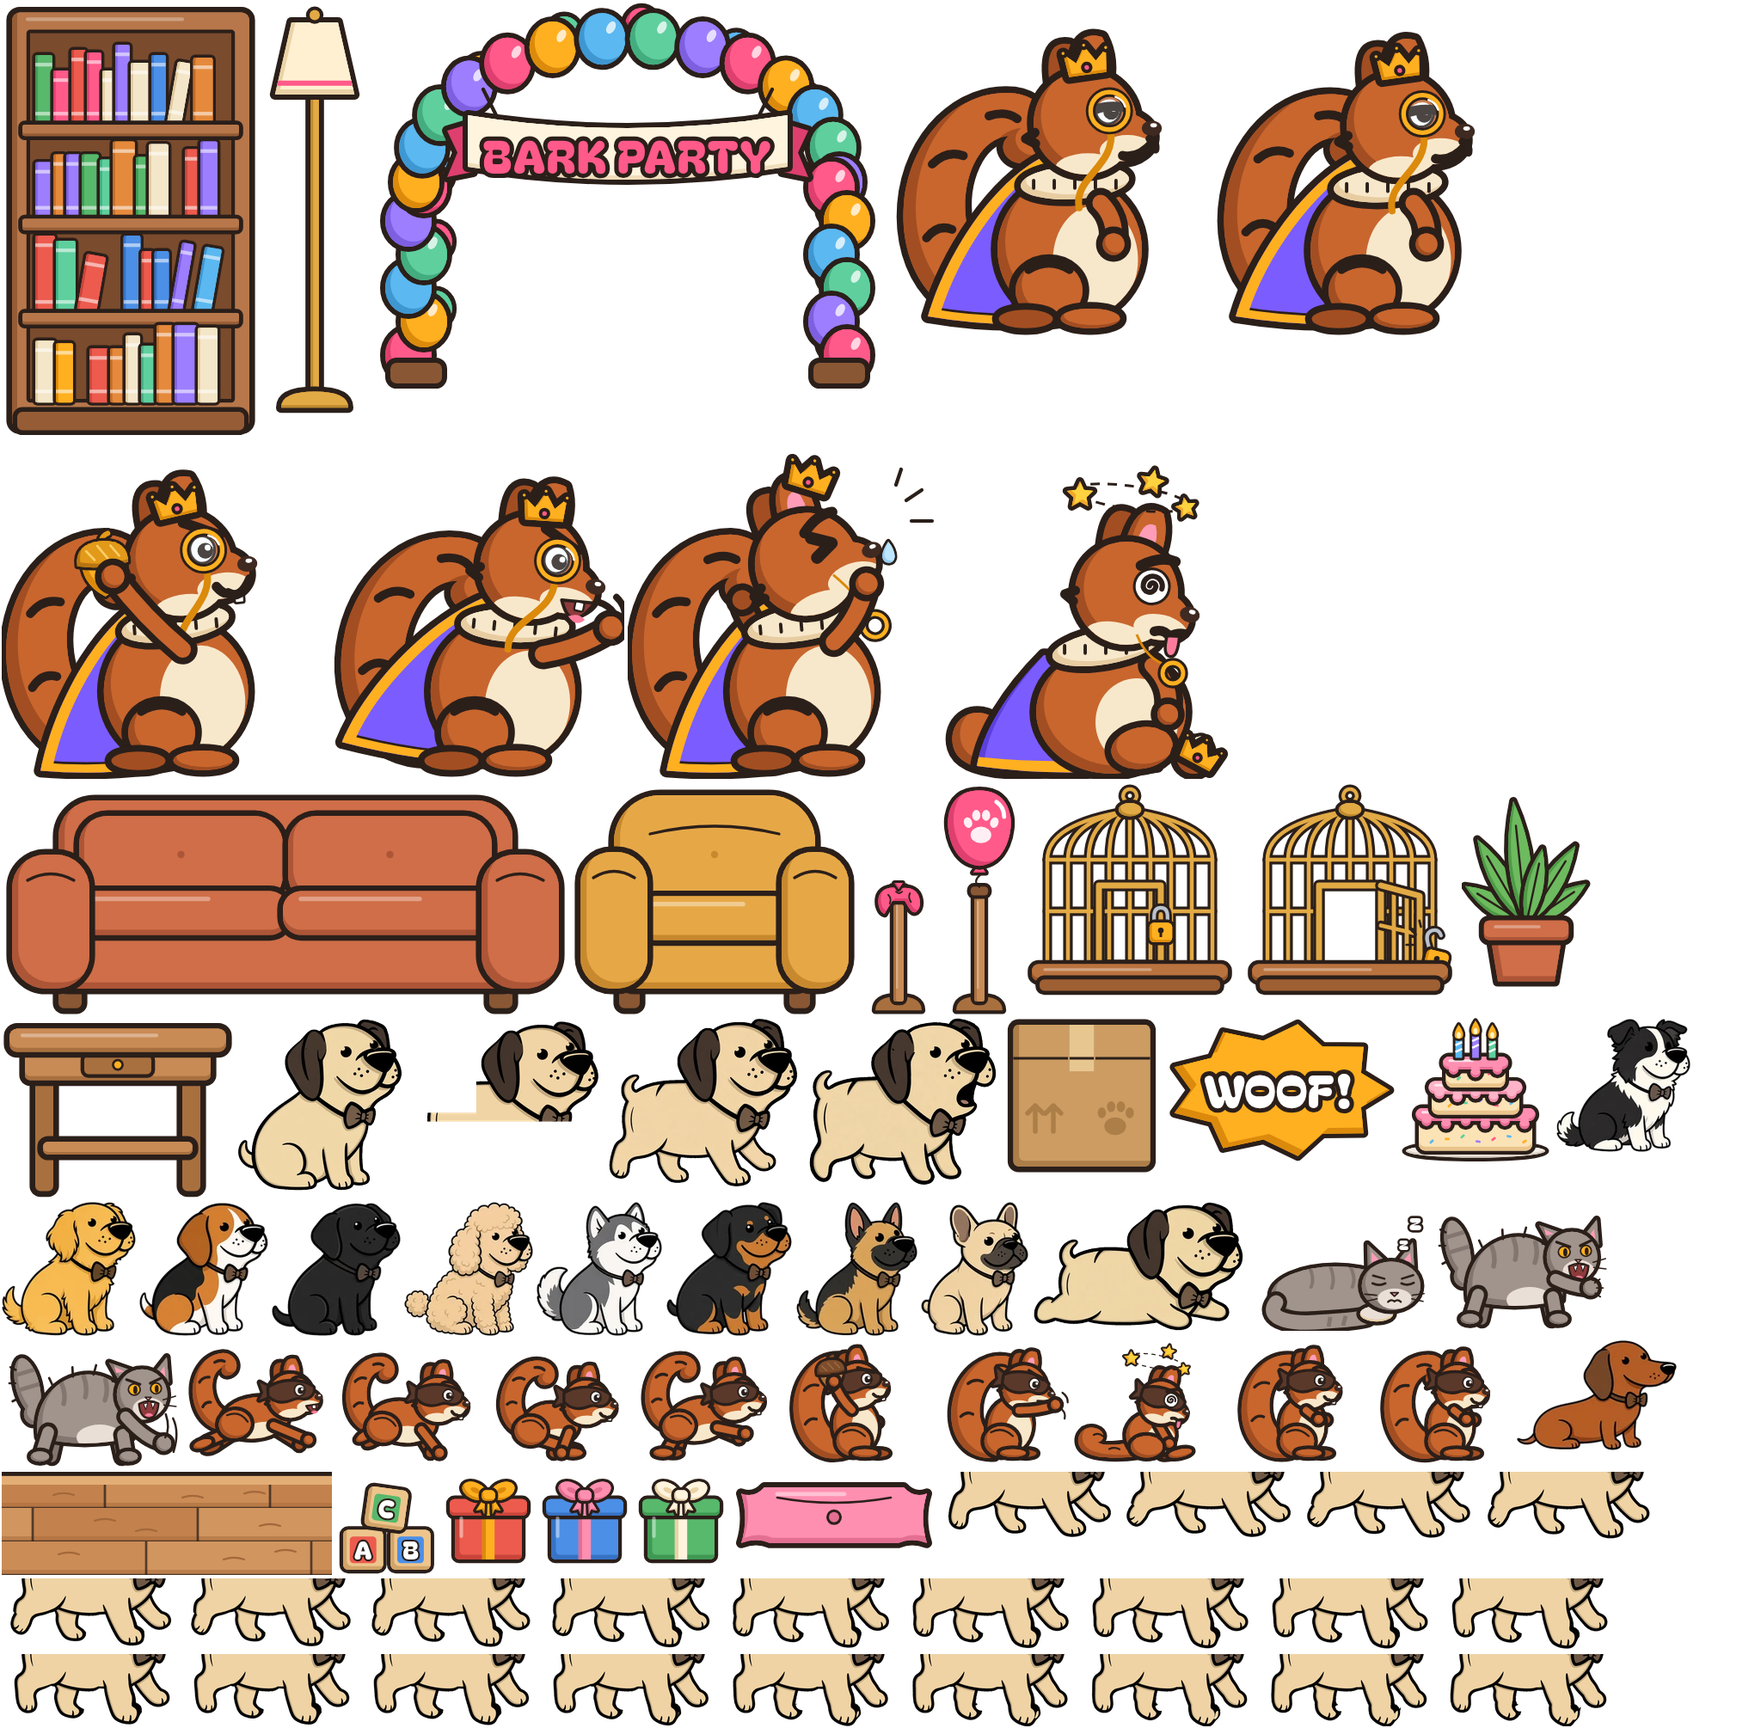
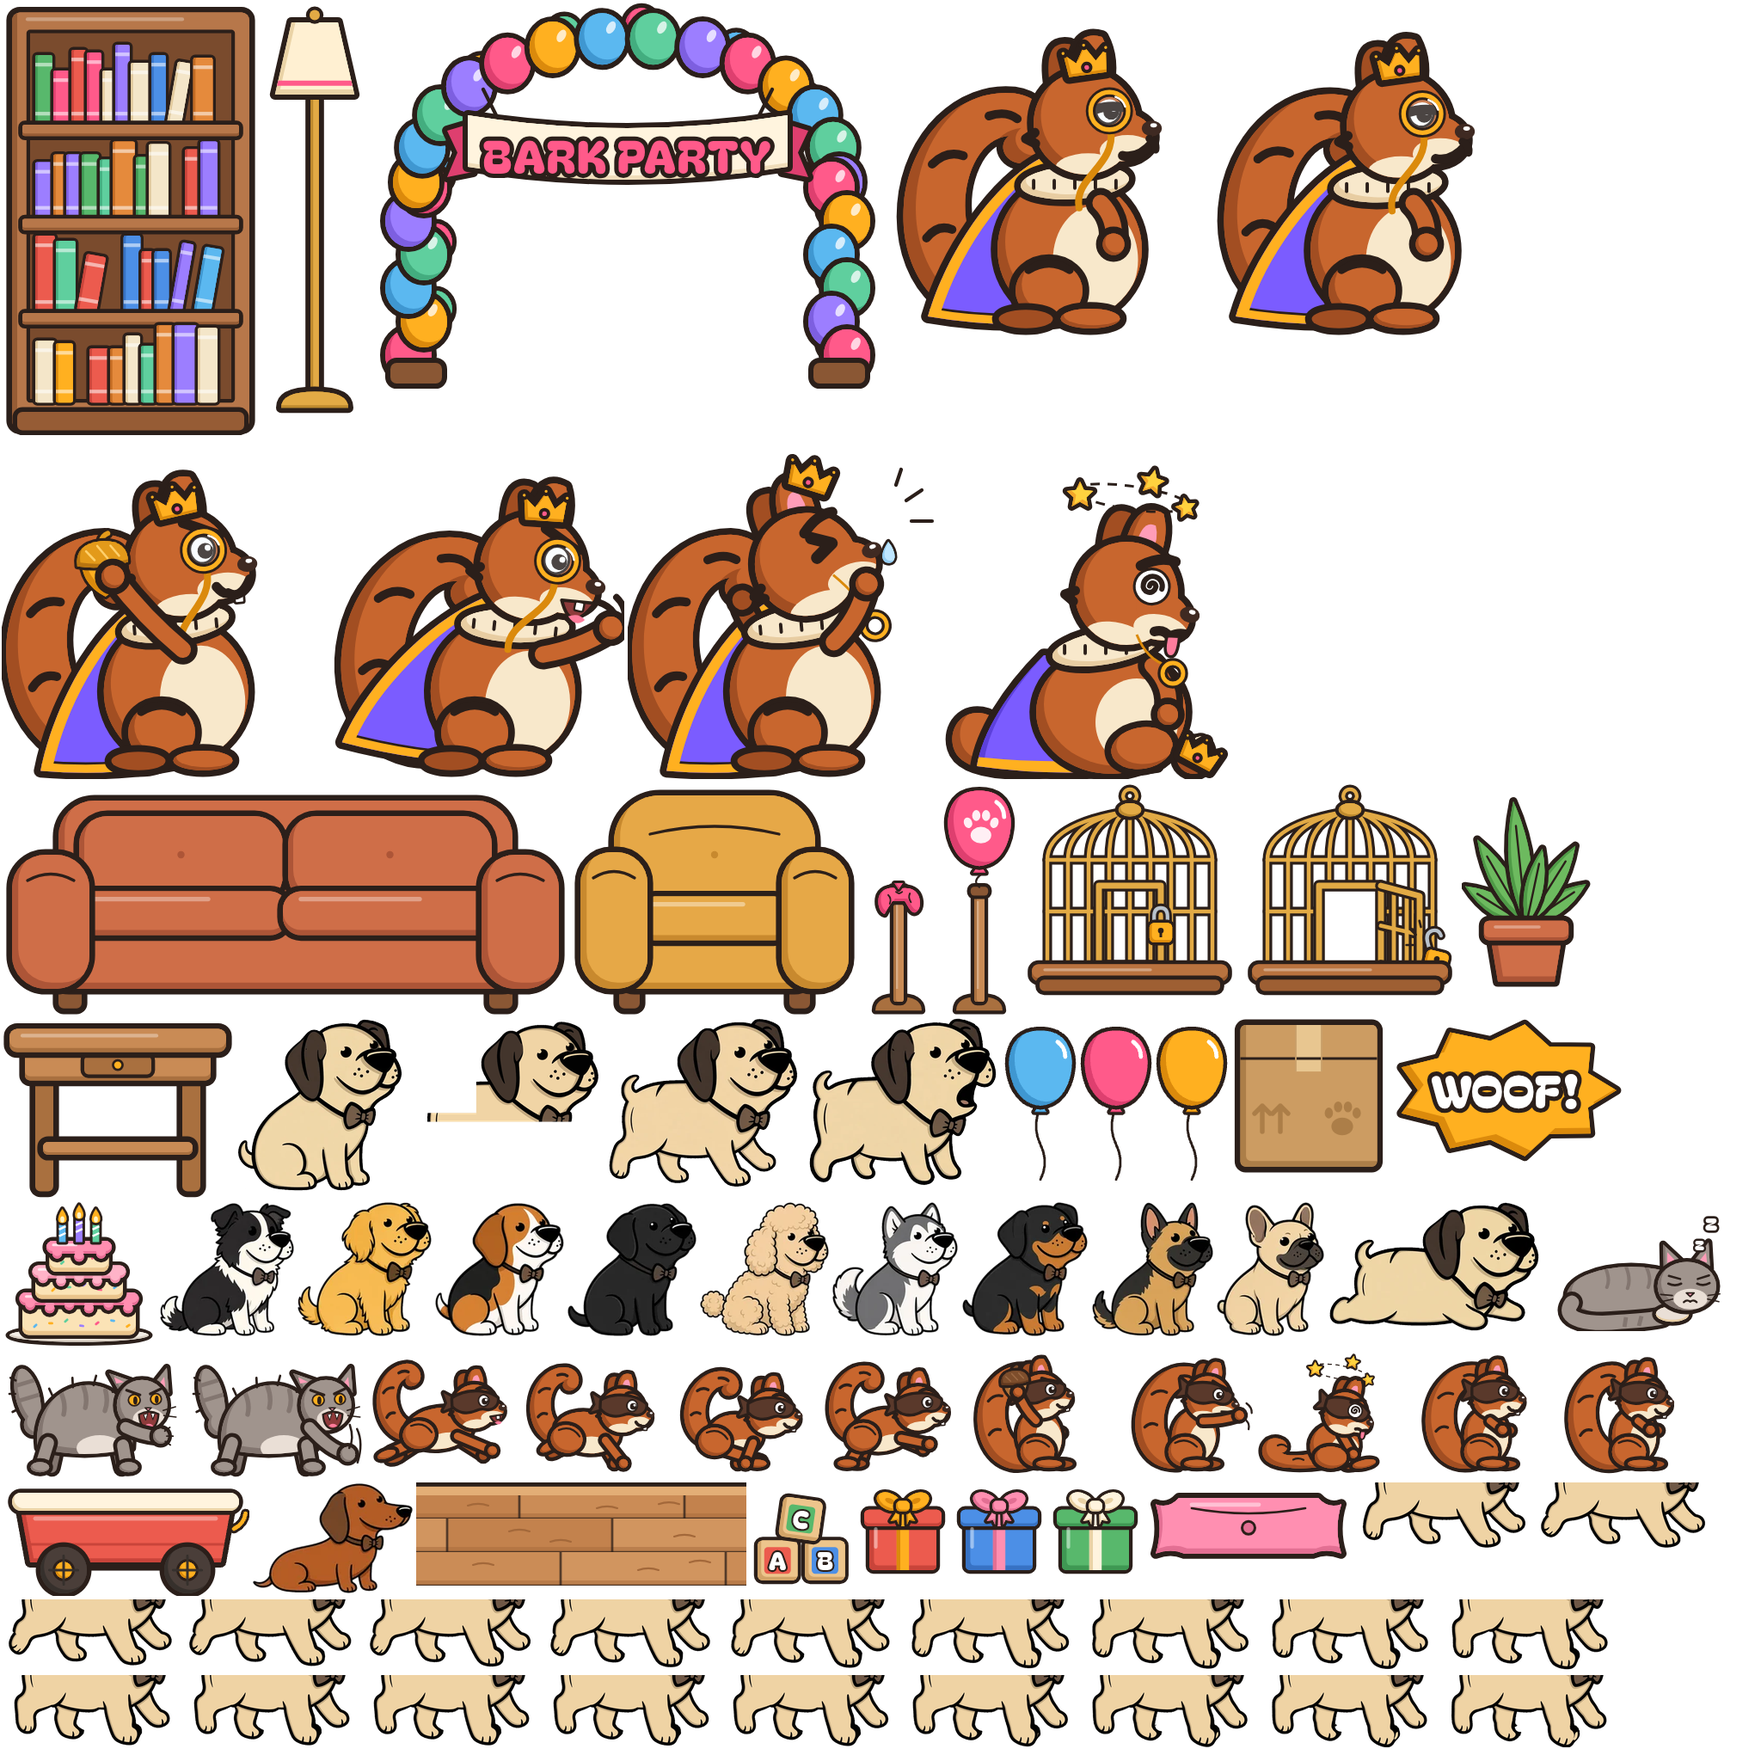
Prototype three ways the freed pups can travel: hop, wagon and balloon.

diff --git a/src/game/render/followers.ts b/src/game/render/followers.ts
@@ -1,0 +1,143 @@
+// How the freed pups travel behind the hero. Pure maths over the hero's trail, no Skia.
+// Three styles exist while Alex picks one; the unpicked ones come out afterwards.
+
+import { SPRITES, dogSprite, type SpriteName } from '../sprites';
+import type { World } from '../sim/types';
+
+export type FollowerStyle = 'hop' | 'wagon' | 'balloon';
+
+export interface FollowerSprite {
+  sprite: SpriteName;
+  x: number;
+  y: number;
+  px: number;
+  py: number;
+  rot?: number;
+  scale?: number;
+  sxScale?: number;
+  syScale?: number;
+  alpha?: number;
+}
+
+/** A straight line in world units (the wagon's rope). */
+export interface Rope {
+  x0: number;
+  y0: number;
+  x1: number;
+  y1: number;
+}
+
+export interface FollowerDraws {
+  /** Drawn behind the hero, in order. */
+  sprites: FollowerSprite[];
+  ropes: Rope[];
+}
+
+const BALLOONS: SpriteName[] = ['balloon_pink', 'balloon_blue', 'balloon_gold'];
+
+/** Keeps volume while squashing: width = 1 / sqrt(height). */
+const wide = (sy: number) => 1 / Math.sqrt(sy);
+
+export function followerDraws(world: World, t: number, style: FollowerStyle): FollowerDraws {
+  const out: FollowerDraws = { sprites: [], ropes: [] };
+  const trail = world.trail;
+  if (trail.length === 0 || world.followers.length === 0) return out;
+  const at = (i: number) => trail[Math.max(0, Math.min(trail.length - 1, i))];
+
+  if (style === 'hop') {
+    // A real bound: crouch, spring, stretch at the top, land in a squash, with a dust puff.
+    const T = 0.44;
+    world.followers.forEach((dog, i) => {
+      const idx = 14 + i * 13;
+      const p = at(idx);
+      const q = at(idx + 1);
+      const u = ((t / T + i * 0.37) % 1 + 1) % 1;
+      let lift = 0;
+      let sy = 1;
+      let rot = 0;
+      let dust = 0;
+      if (u < 0.18) {
+        sy = 1 - 0.14 * Math.sin((Math.PI * u) / 0.18);
+      } else if (u < 0.72) {
+        const v = (u - 0.18) / 0.54;
+        lift = 24 * Math.sin(Math.PI * v);
+        sy = 1 + 0.09 * Math.sin(Math.PI * v) * (1 - v * 0.5);
+        rot = -0.14 + 0.26 * v;
+      } else {
+        const w = (u - 0.72) / 0.28;
+        sy = 1 - 0.2 * Math.sin(Math.PI * w) * Math.exp(-1.6 * w);
+        dust = Math.max(0, 1 - w / 0.4);
+      }
+      const x = p.x - 30 - i * 6;
+      const y = p.y + lift;
+      if (dust > 0) {
+        out.sprites.push({ sprite: dust < 0.5 ? 'dust_1' : 'dust_0', x: x - 8, y: p.y, px: q.x - 38 - i * 6, py: q.y, alpha: dust * 0.9, scale: 0.9 });
+      }
+      out.sprites.push({ sprite: dogSprite(dog), x, y, px: q.x - 30 - i * 6, py: q.y + lift, rot, scale: 0.92, syScale: sy, sxScale: wide(sy) });
+    });
+    return out;
+  }
+
+  if (style === 'wagon') {
+    // The pups ride in a wagon towed on a rope; it tips with the ground and bounces on the wheels.
+    const idx = 20;
+    const p = at(idx);
+    const q = at(idx + 1);
+    const ahead = at(idx - 8);
+    const behind = at(idx + 8);
+    const slope = Math.atan2(ahead.y - behind.y, Math.max(1, ahead.x - behind.x));
+    const rot = Math.max(-0.3, Math.min(0.3, -slope * 0.45));
+    const bounce = p.y < 2 ? Math.abs(Math.sin(t * 19)) * 1.6 : 0;
+    const wx = p.x - 54;
+    const wy = p.y + bounce;
+    const hero = world.hero;
+    const cos = Math.cos(rot);
+    const sin = Math.sin(rot);
+    // Pups sit on the wagon floor, drawn first so the bed hides their legs: they are in it, not on it.
+    world.followers.forEach((dog, i) => {
+      const jiggle = 1 + Math.sin(t * 12 + i * 1.9) * 0.03;
+      const sx = -20 + i * 26;
+      const sy = 20;
+      const x = wx + sx * cos + sy * sin;
+      const y = wy - sx * sin + sy * cos;
+      out.sprites.push({
+        sprite: dogSprite(dog),
+        x,
+        y,
+        px: x - (p.x - q.x),
+        py: y - (p.y - q.y),
+        rot,
+        scale: 0.74,
+        syScale: jiggle,
+        sxScale: wide(jiggle),
+      });
+    });
+    out.sprites.push({ sprite: 'wagon', x: wx, y: wy, px: q.x - 54, py: q.y + bounce, rot });
+    // Rope from the tow ring (front, right) to the hero's chest.
+    const rx = 44;
+    const ry = 30;
+    out.ropes.push({ x0: wx + rx * cos + ry * sin, y0: wy - rx * sin + ry * cos, x1: hero.x - 12, y1: hero.y + 30 });
+    return out;
+  }
+
+  // Balloon: each pup floats from a party balloon, swinging like a pendulum behind the hero.
+  world.followers.forEach((dog, i) => {
+    const idx = 8 + i * 6;
+    const p = at(idx);
+    const q = at(idx + 1);
+    const size = SPRITES[dogSprite(dog)];
+    const swing = 0.14 * Math.sin(t * 2.4 + i * 1.3) - world.hero.vy * 0.00012;
+    const bob = 6 * Math.sin(t * 1.9 + i * 0.9);
+    const topX = p.x - 40 - i * 32;
+    const topY = p.y + 118 + i * 6 + bob;
+    const ptopX = q.x - 40 - i * 32;
+    const ptopY = q.y + 118 + i * 6 + bob;
+    // Everything hangs from the balloon's top: turn the balloon and the pup about that point.
+    const hang = (dy: number) => ({ dx: Math.sin(swing) * dy, dy: -Math.cos(swing) * dy });
+    const b = hang(SPRITES.balloon_pink.h);
+    const d = hang(SPRITES.balloon_pink.h + size.h * 0.84);
+    out.sprites.push({ sprite: BALLOONS[i % BALLOONS.length], x: topX + b.dx, y: topY + b.dy, px: ptopX + b.dx, py: ptopY + b.dy, rot: swing });
+    out.sprites.push({ sprite: dogSprite(dog), x: topX + d.dx, y: topY + d.dy, px: ptopX + d.dx, py: ptopY + d.dy, rot: swing, scale: 0.84 });
+  });
+  return out;
+}

diff --git a/tools/gen_sprites.js b/tools/gen_sprites.js
@@ -865,6 +865,34 @@ function barkBurst() {
   return g;
 }
 
+// A little red party wagon the freed pups can ride in (tow ring at the front, right).
+function wagon() {
+  let g = '';
+  g += blob(R(16, 29, 64, 4, 2), C.vacS, null, { O: 1.2 });
+  g += blob(P('M7 9 L89 9 L85 31 L11 31 Z'), C.red, C.redS, {
+    O: 2, so: 1.6, off: [1.4, -1.6],
+    extra: `<path d="M13 14 L83 14" stroke="${WH}" stroke-opacity="0.35" stroke-width="1.6" stroke-linecap="round"/><path d="M8 24 L88 24" stroke="${C.redS}" stroke-width="1" stroke-linecap="round"/>`,
+  });
+  g += blob(R(4, 4, 88, 7, 3.5), '#FFF4DE', '#EAD3A6', { O: 1.6, so: 1, off: [0.8, -1] });
+  for (const x of [24, 72]) {
+    g += blob(Ci(x, 34, 9), '#4A3E39', '#36302C', { O: 1.8, so: 1.4 });
+    g += blob(Ci(x, 34, 3.2), C.gold, C.goldS, { O: 1.1, so: 0.6 });
+    g += `<path d="M${x - 5.6} ${34} L${x + 5.6} ${34} M${x} ${34 - 5.6} L${x} ${34 + 5.6}" stroke="#36302C" stroke-width="1" stroke-linecap="round"/>`;
+  }
+  g += strokes([`M90 18 Q94 16 94.5 12`], 1.6, C.gold, { O: 1 });
+  return g;
+}
+
+// A party balloon on a string, for a pup to float along behind the hero.
+function balloon(col, colS) {
+  let g = '';
+  g += ln('M14 34.4 Q10.6 42 14 49 Q17.4 56 14 62.6', 0.7);
+  g += blob(P('M14 33.2 L11.6 36.4 L16.4 36.4 Z'), col, colS, { O: 1.2, so: 0.5 });
+  g += blob(P('M14 34 C3 33.2 1 19.6 2 14.6 C3.5 6.6 9 4.8 14 4.8 C19 4.8 24.5 6.6 26 14.6 C27 19.6 25 33.2 14 34 Z'), col, colS, { O: 1.5, so: 2, off: [2.2, -1.6] });
+  g += `<path d="M20.6 9.2 Q23.6 11.2 23.6 15" fill="none" stroke="${WH}" stroke-width="1.6" stroke-linecap="round"/>`;
+  return g;
+}
+
 // ---------------------------------------------------------------- registry
 const S = {};
 const add = (name, W, H, O, fn, top) => (S[name] = { W, H, O, fn, top });
@@ -916,6 +944,10 @@ add('bark_burst', 90, 56, 1.8, () => barkBurst());
 add('heart_full', 24, 22, 1.4, () => blob(P(heartPath(12, 11.6, 9.6)), C.gum, C.gumS, { so: 1.6, extra: `<ellipse cx="16" cy="6.8" rx="2" ry="1.3" fill="${WH}" fill-opacity="0.85" transform="rotate(30 16 6.8)"/>` }));
 add('heart_empty', 24, 22, 1.4, () => blob(P(heartPath(12, 11.6, 9.6)), '#E9DAD2', '#D5C2B8', { so: 1.6 }));
 add('bone_icon', 28, 16, 1.4, () => bone(28, 16, false, 1.4));
+add('wagon', 96, 44, 2, () => wagon());
+add('balloon_blue', 28, 64, 1.4, () => balloon(C.sky, C.skyS));
+add('balloon_pink', 28, 64, 1.4, () => balloon(C.gum, C.gumS));
+add('balloon_gold', 28, 64, 1.4, () => balloon(C.gold, C.goldS));
 
 const only = process.argv.slice(2);
 const dir = path.resolve(__dirname, '..', 'art', 'svg');

diff --git a/src/game/render/__tests__/dumpFrames.test.ts b/src/game/render/__tests__/dumpFrames.test.ts
@@ -9,8 +9,34 @@ import { buildFrame, type AtlasData } from '../buildFrame';
 import atlas from '../atlas.json';
 
 const OUT = process.env.DUMP_FRAMES;
+/** Set to hop, wagon or balloon to dump a 30 fps clip of the hero jumping a pit with two friends instead. */
+const STYLE = process.env.DUMP_STYLE as 'hop' | 'wagon' | 'balloon' | undefined;
 
-(OUT ? it : it.skip)('dumps frames', () => {
+(OUT && STYLE ? it : it.skip)('dumps a friends clip', () => {
+  const level = { ...CHAPTER_1, floorSegments: [[-600, 700], [850, 20000]] as [number, number][], platforms: [], enemies: [], pickups: [], cages: [], checkpoints: [], callouts: [], decor: [{ sprite: 'rug' as const, x: 300 }, { sprite: 'potted_plant' as const, x: 1000 }], boss: undefined };
+  const w = createWorld(level, 640);
+  w.followers.push('husky', 'frenchie');
+  const k = 1.5;
+  const setup = { atlas: atlas as unknown as AtlasData, background: null, k, screenW: 640 * k, screenH: 360 * k, followerStyle: STYLE };
+  const frames: { label: string; heroX: number; heroY: number; camX: number; ops: number[] }[] = [];
+  const press: Input = { ...NO_INPUT, jumpPressed: true, jumpHeld: true };
+  const hold: Input = { ...NO_INPUT, jumpHeld: true };
+  // Warm up so the trail is full, then 2.6 s at 30 fps: run, jump the pit at x≈700, land, run on.
+  for (let i = 0; i < 90; i++) stepWorld(w, NO_INPUT, STEP);
+  let held = 0;
+  for (let f = 0; f < 78; f++) {
+    for (let j = 0; j < 2; j++) {
+      const nearPit = w.hero.x > 640 && w.hero.onGround && held === 0;
+      const input = nearPit ? press : held > 0 && held < 12 ? hold : NO_INPUT;
+      if (nearPit || (held > 0 && held < 12)) held++;
+      stepWorld(w, input, STEP);
+    }
+    frames.push({ label: '', heroX: w.hero.x, heroY: w.hero.y, camX: w.camX, ops: buildFrame(w, setup).data });
+  }
+  writeFileSync(OUT!, JSON.stringify({ k, frames }));
+});
+
+(OUT && !STYLE ? it : it.skip)('dumps frames', () => {
   const flat = { ...CHAPTER_1, floorSegments: [[-600, 20000]] as [number, number][], platforms: [{ sprite: 'cardboard_box' as const, x: 2200, solid: true }], enemies: [], pickups: [], cages: [], checkpoints: [], callouts: [], decor: [], boss: undefined };
   const w = createWorld(flat, 640);
   const k = 2;

diff --git a/src/game/render/buildFrame.ts b/src/game/render/buildFrame.ts
@@ -5,6 +5,7 @@ import { FLOOR_SCREEN_Y } from '../constants';
 import { SPRITES, dogSprite, type SpriteName } from '../sprites';
 import { BOSS_LEAD } from '../sim/world';
 import type { Hero, World } from '../sim/types';
+import { followerDraws, type FollowerStyle } from './followers';
 import { TUCK_DOWN, TUCK_UP, puppetPose } from './pupPose';
 
 /**
@@ -34,6 +35,8 @@ export interface FrameSetup {
   screenW: number;
   screenH: number;
   reduceMotion?: boolean;
+  /** How the freed pups travel (default 'hop'). */
+  followerStyle?: FollowerStyle;
   /** Development: filled in with the hero frames actually drawn, for the frame-rate probe. */
   probe?: PupProbe;
 }
@@ -242,17 +245,14 @@ export function buildFrame(world: World, setup: FrameSetup, out = new OpList()):
     sprite(a.golden ? 'acorn_golden' : 'acorn', a.x, a.y - 9, { rot: a.spin, scale: a.golden ? 1.4 : 1, px: a.px, py: a.py === undefined ? undefined : a.py - 9 });
   }
 
-  // Rescued friends hop along behind the dog.
-  world.followers.forEach((dog, i) => {
-    const idx = Math.min(world.trail.length - 1, 14 + i * 13);
-    if (idx < 0) return;
-    const p = world.trail[idx];
-    const q = world.trail[Math.min(world.trail.length - 1, idx + 1)];
-    const hop = Math.abs(Math.sin(t * 11 + i * 1.7));
-    const y = p.y + hop * 10;
-    const squash = 1 - (1 - hop) * 0.08;
-    sprite(dogSprite(dog), p.x - 30 - i * 6, y, { scale: 0.92, syScale: squash, sxScale: 1 / Math.sqrt(squash), px: q.x - 30 - i * 6, py: q.y + hop * 10 });
-  });
+  // Rescued friends travel behind the dog.
+  const friends = followerDraws(world, t, setup.followerStyle ?? 'hop');
+  for (const r of friends.ropes) {
+    const dx = r.x1 - r.x0;
+    const dy = r.y1 - r.y0;
+    rect((r.x0 + r.x1) / 2, (r.y0 + r.y1) / 2, Math.hypot(dx, dy), 2.2, COCOA, 0.9, -Math.atan2(dy, dx));
+  }
+  for (const s of friends.sprites) sprite(s.sprite, s.x, s.y, s);
 
   drawHero(
     world,

diff --git a/tools/render_sprites.js b/tools/render_sprites.js
@@ -8,11 +8,12 @@
 //
 // Usage: node tools/render_sprites.js [name ...]      (no names = render all)
 // Needs Playwright: set NODE_PATH or PLAYWRIGHT_DIR if `require('playwright')` does not resolve.
+// With playwright-core (no bundled browser), set CHROME_PATH to a Chrome or Chromium executable.
 const fs = require('fs');
 const path = require('path');
 
 function loadPlaywright() {
-  const tries = [process.env.PLAYWRIGHT_DIR, '/tmp/claude-0/node_modules/playwright', 'playwright'].filter(Boolean);
+  const tries = [process.env.PLAYWRIGHT_DIR, '/tmp/claude-0/node_modules/playwright', 'playwright', 'playwright-core'].filter(Boolean);
   for (const t of tries) {
     try {
       return require(t);
@@ -46,9 +47,9 @@ function attr(svg, name) {
     ? `@font-face{font-family:'Bagel Fat One';src:url(data:font/ttf;base64,${fs.readFileSync(FONT).toString('base64')}) format('truetype');}`
     : '';
   const browser = await chromium.launch({
-    executablePath: fs.existsSync('/opt/pw-browsers/chromium') && fs.statSync('/opt/pw-browsers/chromium').isFile()
-      ? '/opt/pw-browsers/chromium'
-      : undefined,
+    executablePath:
+      process.env.CHROME_PATH ||
+      (fs.existsSync('/opt/pw-browsers/chromium') && fs.statSync('/opt/pw-browsers/chromium').isFile() ? '/opt/pw-browsers/chromium' : undefined),
   });
   const page = await browser.newPage({ deviceScaleFactor: 1 });
   const manifestPath = path.join(OUT_DIR, 'manifest.json');

diff --git a/src/game/sprites.ts b/src/game/sprites.ts
@@ -94,6 +94,12 @@ export const SPRITES = {
   rug: { w: 240, h: 16 },
   floor_living: { w: 128, h: 40 },
 
+  // Ways the freed pups can travel behind the hero
+  wagon: { w: 96, h: 44 },
+  balloon_blue: { w: 28, h: 64 },
+  balloon_pink: { w: 28, h: 64 },
+  balloon_gold: { w: 28, h: 64 },
+
   // Effects and UI
   dust_0: { w: 24, h: 16 },
   dust_1: { w: 24, h: 16 },

diff --git a/tools/composite_frames.py b/tools/composite_frames.py
@@ -16,10 +16,11 @@ out_path = sys.argv[2]
 k = data['k']
 pages = [Image.open(f'{ROOT}/assets/game/atlas/{p}').convert('RGBA') for p in json.load(open(f'{ROOT}/src/game/render/atlas.json'))['pages']]
 
+GIF = out_path.endswith('.gif')
 CROP = 320  # px around the hero
 tiles = []
 for fr in data['frames']:
-    W, H = 640 * k, 360 * k
+    W, H = int(640 * k), int(360 * k)
     canvas = Image.new('RGBA', (W, H), (240, 230, 220, 255))
     d = fr['ops']
     for i in range(0, len(d), STRIDE):
@@ -40,6 +41,10 @@ for fr in data['frames']:
         if rot:
             layer = layer.rotate(-rot * 180 / math.pi, resample=Image.BICUBIC, expand=True)
         canvas.alpha_composite(layer, (int(round(cx - layer.width / 2)), int(round(cy - layer.height / 2))))
+    if GIF:
+        # The whole view, as the phone shows it, with the camera's own framing.
+        tiles.append(canvas.convert('RGB'))
+        continue
     # Crop around the hero (screen x of the hero = (heroX - camX) * k).
     hx = (fr['heroX'] - fr['camX']) * k
     hy = (FLOOR_SCREEN_Y - fr['heroY']) * k
@@ -47,6 +52,12 @@ for fr in data['frames']:
     tile = canvas.crop(box)
     ImageDraw.Draw(tile).text((6, 6), fr['label'], fill=(20, 10, 10, 255))
     tiles.append(tile)
+
+if GIF:
+    fps = int(sys.argv[3]) if len(sys.argv) > 3 else 30
+    tiles[0].save(out_path, save_all=True, append_images=tiles[1:], duration=int(1000 / fps), loop=0, optimize=False)
+    print('wrote', out_path, tiles[0].size, len(tiles), 'frames at', fps, 'fps')
+    sys.exit(0)
 
 cols = 8
 rows = math.ceil(len(tiles) / cols)
